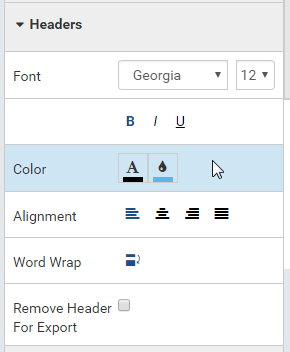
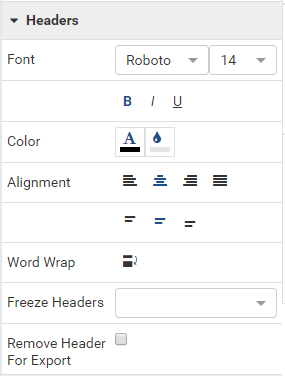
Freeze header

Changed region(s): [[0.0, 0.0, 1.0, 1.0], [0.0561, 0.0312, 0.2807, 0.0938], [0.7298, 0.5938, 0.786, 0.625]]

diff --git a/ui/doc_report_designer_fields.rst b/ui/doc_report_designer_fields.rst
@@ -729,7 +729,7 @@ In this section, user can:
 
 -  Choose text effects bold, italic and underlined.
 
--  Choose text alignment left, center, right or justify and top, middle or bottom. Vertical alignment is available from version 2.10.0.
+-  Choose text alignment left, center, right or justify and top, middle or bottom. Vertical alignment is available for grid from version 2.10.0.
 
 - Turn on or off word wrap option. (This option available from v2.10.0).
 
@@ -899,7 +899,7 @@ In this section, user can adjust formatting for the header row:
 -  Set column width.
 -  Choose a font face and font size.
 -  Choose text effects bold, italic and underlined.
--  Choose text alignment left, center, right or justify and top, middle or bottom. Vertical alignment is available from version 2.10.0.
+-  Choose text alignment left, center, right or justify and top, middle or bottom. Vertical alignment is available for grid from version 2.10.0.
 -  Choose text color and cell color (see `Configure field properties in
    Data Formatting
    section`_).

diff --git a/ui/doc_report_designer_grid.rst b/ui/doc_report_designer_grid.rst
@@ -106,7 +106,7 @@ pane:
 
       Report Designer - Columns Setting
 
-   Set the column width in pixels and turn on/off column word wrap |br|
+   Set the column width in pixels and turn on/off column word wrap (column word wrap is available from version 2.10.0). |br|
 
 -  .. _Report_Designer_Headers_Setting:
 
@@ -126,6 +126,13 @@ pane:
 -  Choose header text alignment left, center, right or justify and top, middle or bottom. Vertical alignment is available from version 2.10.0.
 
 -  Turn on or off word wrap option.
+
+-  Choose Freeze Headers (available from version 2.10.0).
+
+   **Notes:** 
+      -  The Freeze Header setting will apply for the report part in report designer, report viewer and dashboard.
+
+      -  If a sub-report has Freeze Header setting, the setting will apply for Link or Pop-up type but NOT for Embedded type.
 
 -  Optionally hides the header in export.
 
